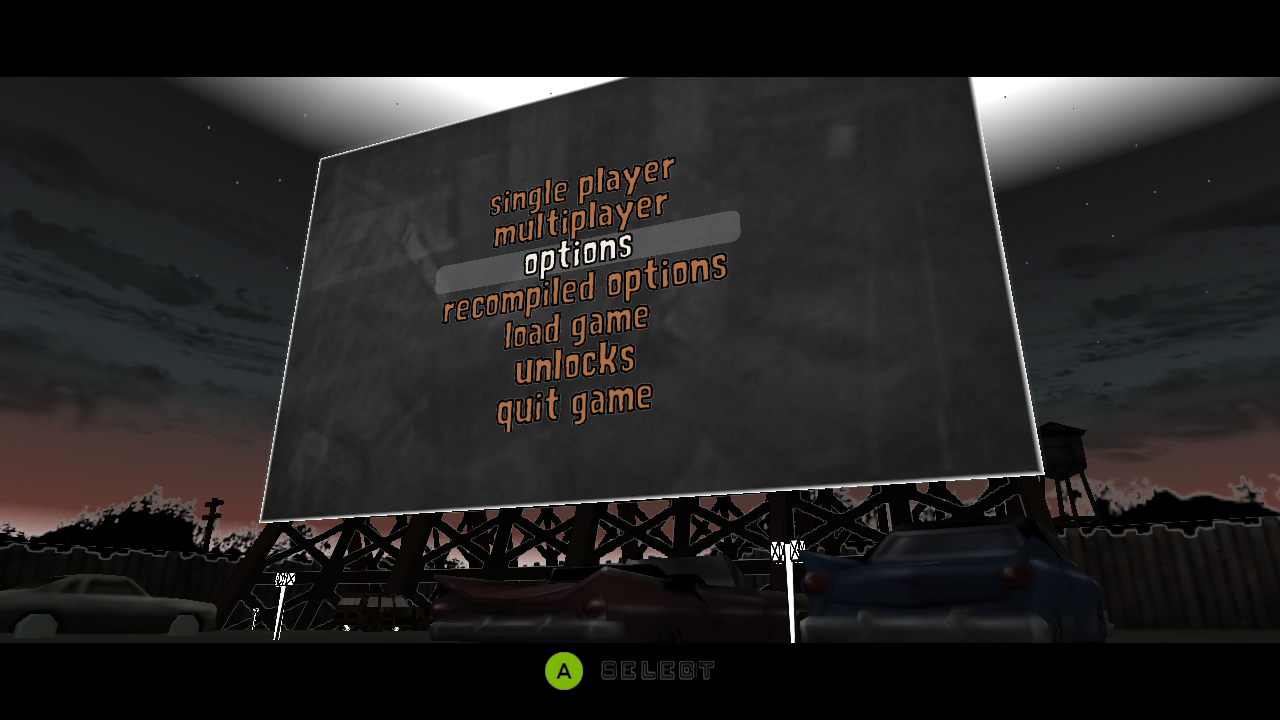
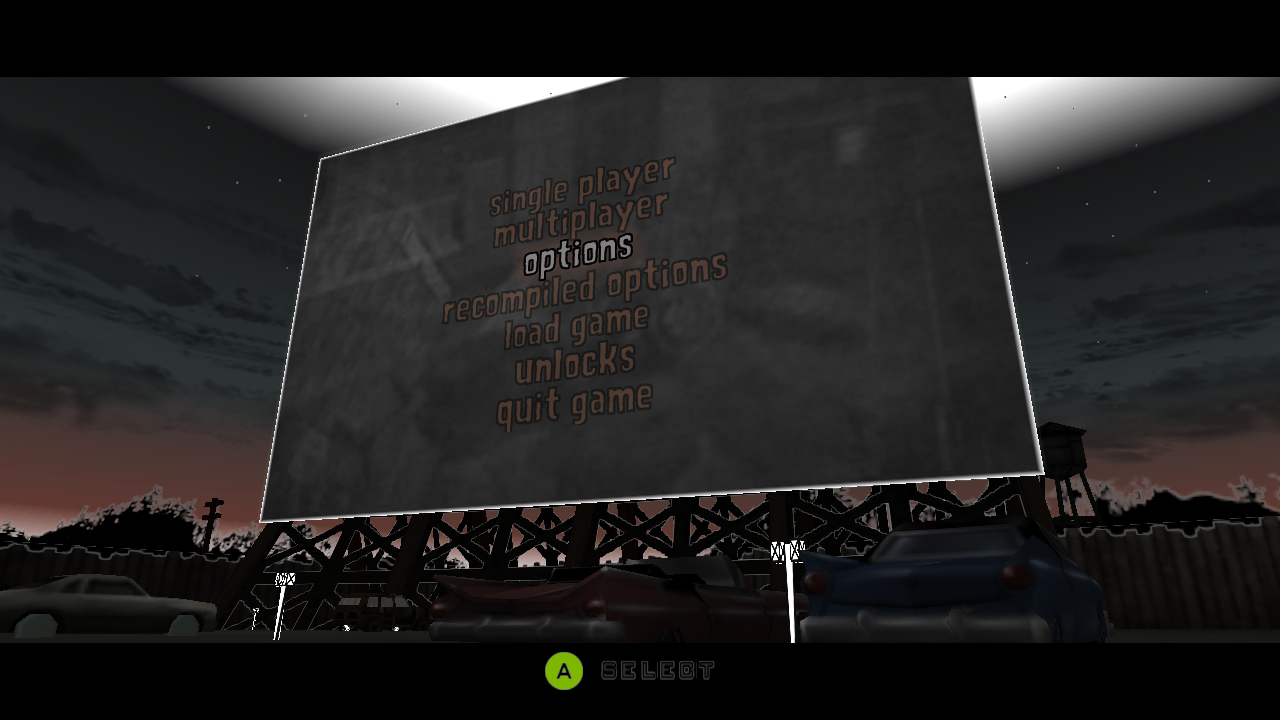
native: lista do menu com as cores e o brilho do jogo
Item escolhido cinza opaco, os outros marrom com ~40% de opacidade (cores
de vertice dos objetos do jogo); atras do escolhido, o brilho laranja do
objeto solto do jogo no lugar da faixa escura. A textura da lista vai ao
telao com alfa pre-multiplicado (o translucido saia multiplicado 2x).

Claude-Session: https://claude.ai/code/session_01NCqqrigmjYeRfGvc2uVRhK

Changed region(s): [[0.3438, 0.2139, 0.5938, 0.6111]]

diff --git a/docs/passos/NATIVO.md b/docs/passos/NATIVO.md
@@ -153,7 +153,7 @@ Compara, por objeto e em números, o que o microcódigo do VU1 mandaria ao GS co
     - Painel pelo mapa (`readPanel`): direcional ou analógico, X ok, triângulo ou bola volta, L1/R1 abas, quadrado limpa, nos gamepads com a troca do MENU CONFIRM; botão sem tecla ou botão no mapa vale pelo padrão (o painel nunca fica sem saída). Saíram Q/E, Tab, V, Delete, Enter. Esc só cancela a espera da tecla nova (e não pode ser gravado).
     - Ícones no painel: L1/R1 das abas no estilo escolhido (no teclado, a tecla do mapa); o nome de cada botão do PS2 nas linhas do mapa é o ícone dele no estilo PlayStation (D-pad do Kenney, face buttons do jogo; "L1 AND R1" com os dois; o analógico segue em texto); o valor de um mapa de gamepad é o ícone do botão físico no estilo escolhido.
     - QUIT GAME no fim do menu principal (`wotm_mainmenu.inc`, `kQuitRow`): o X fecha o jogo na hora (`requestStop`, o caminho do X da janela). Os itens nossos da tela 1 (RECOMPILED OPTIONS, QUIT GAME) ficam fora do `currentSelection` (`g_extraRow`); a lista passou a 7 vagas.
-    - Lista do menu com as letras do jogo (`wotm_menufont.inc`): as minúsculas brancas desenhadas à mão das palavras dos itens (T4 81, 142 e 162 do `SHELL.TEX`, paletas tbp 239, 480 e 518, `decodeT4` do `wotm_model.hpp`). Palavras que o jogo tem saem inteiras; as nossas (single player, recompiled options, quit game, e endurance/elimination, que no jogo só existem em cinza) saem do maior trecho de alguma palavra que casa com o que falta, recortado no meio do vão entre as letras (só o branco separa: o contorno preto encosta); "sudden death" e "unlimited play", frases que o jogo apertou (o "e" com 14 px em vez de 17), só entram para letra que não existe nas outras. Cada linha tem a sua linha de base e altura do x medidas. A fonte não tem b, j, q, x nem z; o q é o p espelhado. Sem o disco, volta a fonte de maiúsculas.
+    - Lista do menu com as letras do jogo (`wotm_menufont.inc`): as minúsculas brancas desenhadas à mão das palavras dos itens (T4 81, 142 e 162 do `SHELL.TEX`, paletas tbp 239, 480 e 518, `decodeT4` do `wotm_model.hpp`). Palavras que o jogo tem saem inteiras; as nossas (single player, recompiled options, quit game, e endurance/elimination, que no jogo só existem em cinza) saem do maior trecho de alguma palavra que casa com o que falta, recortado no meio do vão entre as letras (só o branco separa: o contorno preto encosta); "sudden death" e "unlimited play", frases que o jogo apertou (o "e" com 14 px em vez de 17), só entram para letra que não existe nas outras. Cada linha tem a sua linha de base e altura do x medidas. A fonte não tem b, j, q, x nem z; o q é o p espelhado. Sem o disco, volta a fonte de maiúsculas. Cores e brilho como os do jogo: o item escolhido cinza opaco (cor de vértice 64,64,64), os outros marrom (67,41,28) com ~40% de opacidade (alfa de vértice 26, dobrado como na textura deles); atrás do escolhido, no lugar da faixa escura, o brilho do objeto solto do jogo (`m_menuObj`, textura 194: miolo com alfa 19 x2 caindo a 0 na borda, miolo com ~0,55 do passo dos itens de altura e borda com 1,5). A textura da lista vai ao telão com alfa pré-multiplicado (`drawOnPlane(..., premul)`): com o alfa normal o translúcido saía multiplicado duas vezes.
   - Fotos: `docs/screenshots/2026-10-22/2026-10-22_{painel_camera_*,painel_controls_7_linhas_legenda_xbox,painel_legenda_teclado,painel_espera_tecla_esc,multiplayer_legenda_icones,options_do_jogo_redesenhado,menu_sem_brilho_antigo}.png`. A seleção de monstros do multiplayer (do colaborador) segue com a dica dentro do telão.
 - **"Press start" sem espera e com X (2026-10-20, `wotm_menu.inc`):** no retail a tela 20 (`screenWaitForStart`) só aceita Start, e só quando a transição 16 → 20 termina: a cena clareia do preto enquanto a câmera recua do telão (animação 1, 120 quadros, ~2 s), e o `screenGetInput` devolve 0 enquanto `betweenScreens != 0`. Agora X vale como Start (na tela 20 o código 6 do `screenGetInput` vira 0x10) e Start/X já valem durante essa transição: o gancho do `screenTransition` lê o pad (com `betweenScreens` zerado só na leitura) e roda o próprio `screenWaitForStart` com o Start injetado (primeira passada: seleções, controles, `m_menuCs` escondido; depois `changeScreen(20 → 1)` e o som). A animação 1 segue sozinha e a transição 20 → 1 usa a animação 0, como no caminho normal: as opções aparecem no fade de sempre (40 quadros) com a câmera ainda terminando o movimento. O aperto só conta depois de o botão ser solto dentro da transição (o X que pulou o filme não entra no menu) e só age depois do fade-out da tela anterior (20 quadros); antes fica guardado. Log: `WOTM_MENULOG=1`.
 - **Câmera livre de debug (F5, 2026-10-17, conferida pelo dono):** `native/wotm_freecam.h` (estado e convenção: heading em Z, 0 = +Y, pitch, sem roll; linhas do `_cs` = direita, frente, cima) e `native/runtime/wotm_freecam.inc` (teclas: WASD/QE, Shift/Ctrl, roda = velocidade, botão direito ou setas olham, Tab devolve o pad). A pose vai para o `_cs` da vista 0 na thread do EE (`wotm_overrides.cpp`), depois de `Cameras::Update` e na entrada de `viewUpdate(0)`: o próprio jogo usa a câmera (matrizes, recorte, LOD, partículas, som, controle relativo à câmera). A câmera do jogo continua rodando por baixo e volta sozinha ao desligar. Com ela ligada (sem Tab), o `scePadRead` devolve o pad em repouso. Pausado (F7), o EE não roda: o desenho usa a pose direto, recoleta a cena sem `fovCull`, tira o HUD do hier (o céu fica no lugar: é fixo no mundo); LOD, partículas e prédios fantasma ficam como no quadro pausado. Falta: FOV.
